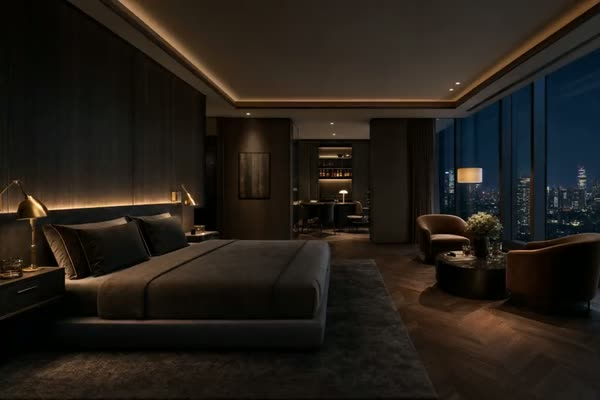
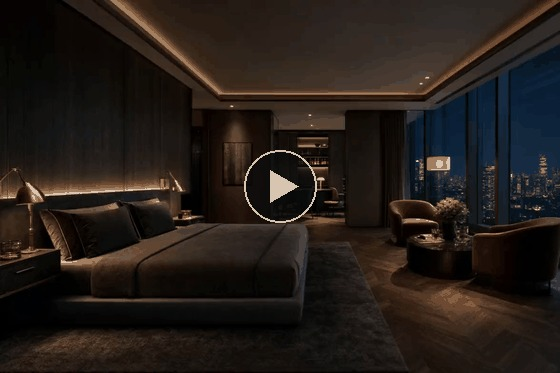
fix(email): resolve text overlaps on stats section and embed play button overlay cleanly into GIF

diff --git a/public/email-template.html b/public/email-template.html
@@ -19,23 +19,24 @@
   <style type="text/css">
     /* Reset styles */
     html, body { margin: 0 !important; padding: 0 !important; height: 100% !important; width: 100% !important; background-color: #08080a; }
-    * { -ms-text-size-adjust: 100%; -webkit-text-size-adjust: 100%; }
+    * { -ms-text-size-adjust: 100%; -webkit-text-size-adjust: 100%; box-sizing: border-box; }
     div[style*="margin: 16px 0"] { margin: 0 !important; }
     table, td { mso-table-lspace: 0pt !important; mso-table-rspace: 0pt !important; }
-    table { border-spacing: 0 !important; border-collapse: collapse !important; table-layout: fixed !important; margin: 0 auto !important; }
+    table { border-spacing: 0 !important; border-collapse: collapse !important; margin: 0 auto !important; }
     img { -ms-interpolation-mode: bicubic; border: 0; outline: none; text-decoration: none; display: block; }
     a { text-decoration: none; }
 
     /* Hover effects for modern mail clients */
-    .cta-btn:hover { background-color: #ffffff !important; color: #08080a !important; }
-    .gif-container:hover .play-badge { transform: scale(1.1); }
+    .btn-gold:hover { background-color: #ffffff !important; color: #08080a !important; }
+    .btn-white:hover { background-color: #d4af37 !important; color: #08080a !important; }
 
     /* Responsive styles */
     @media screen and (max-width: 600px) {
-      .email-container { width: 100% !important; margin: auto !important; }
-      .content-padding { padding: 24px 18px !important; }
+      .email-container { width: 100% !important; margin: auto !important; border-radius: 0 !important; }
+      .content-padding { padding: 24px 16px !important; }
       .header-title { font-size: 22px !important; line-height: 28px !important; }
-      .stat-number { font-size: 28px !important; }
+      .stat-col { width: 100% !important; display: block !important; margin-bottom: 6px !important; }
+      .stat-text-col { width: 100% !important; display: block !important; padding-left: 0 !important; margin-bottom: 20px !important; }
       .btn-mobile { width: 100% !important; display: block !important; box-sizing: border-box !important; text-align: center !important; }
     }
   </style>
@@ -48,25 +49,25 @@
     &#8479;&#8479;&#8479;&#8479;&#8479;&#8479;&#8479;&#8479;&#8479;&#8479;&#8479;&#8479;&#8479;&#8479;&#8479;&#8479;
   </div>
 
-  <!-- Email Wrapper -->
-  <table align="center" role="presentation" cellspacing="0" cellpadding="0" border="0" width="100%" style="background-color: #08080a; padding: 30px 10px;">
+  <!-- Email Outer Wrapper -->
+  <table align="center" role="presentation" cellspacing="0" cellpadding="0" border="0" width="100%" style="background-color: #08080a; padding: 24px 8px;">
     <tr>
       <td align="center">
 
         <!-- Container (600px Max Width) -->
-        <table align="center" role="presentation" cellspacing="0" cellpadding="0" border="0" width="600" class="email-container" style="background-color: #121216; border: 1px solid rgba(255,255,255,0.08); border-radius: 16px; overflow: hidden; width: 600px;">
+        <table align="center" role="presentation" cellspacing="0" cellpadding="0" border="0" width="600" class="email-container" style="background-color: #121216; border: 1px solid rgba(255,255,255,0.08); border-radius: 16px; overflow: hidden; width: 600px; max-width: 600px;">
 
           <!-- BRAND HEADER -->
           <tr>
-            <td style="padding: 32px 36px 20px 36px; background: linear-gradient(180deg, #181820 0%, #121216 100%); border-bottom: 1px solid rgba(255,255,255,0.06);" class="content-padding">
+            <td style="padding: 28px 32px 20px 32px; background: linear-gradient(180deg, #181822 0%, #121216 100%); border-bottom: 1px solid rgba(255,255,255,0.06);" class="content-padding">
               <table role="presentation" cellspacing="0" cellpadding="0" border="0" width="100%">
                 <tr>
                   <td>
-                    <span style="font-family: 'Helvetica Neue', Helvetica, Arial, sans-serif; font-size: 20px; font-weight: 800; letter-spacing: 0.15em; color: #ffffff; text-transform: uppercase;">NEXTWEB</span>
-                    <span style="font-family: 'Helvetica Neue', Helvetica, Arial, sans-serif; font-size: 20px; font-weight: 300; letter-spacing: 0.15em; color: #d4af37; text-transform: uppercase;"> HOTELS</span>
+                    <span style="font-family: 'Helvetica Neue', Helvetica, Arial, sans-serif; font-size: 19px; font-weight: 800; letter-spacing: 0.15em; color: #ffffff; text-transform: uppercase;">NEXTWEB</span>
+                    <span style="font-family: 'Helvetica Neue', Helvetica, Arial, sans-serif; font-size: 19px; font-weight: 300; letter-spacing: 0.15em; color: #d4af37; text-transform: uppercase;"> HOTELS</span>
                   </td>
                   <td align="right">
-                    <span style="font-size: 11px; font-weight: 700; letter-spacing: 0.12em; color: rgba(255,255,255,0.4); text-transform: uppercase; border: 1px solid rgba(255,255,255,0.12); padding: 4px 10px; border-radius: 20px;">Digital HoReCa</span>
+                    <span style="font-size: 11px; font-weight: 700; letter-spacing: 0.12em; color: rgba(255,255,255,0.45); text-transform: uppercase; border: 1px solid rgba(255,255,255,0.12); padding: 4px 10px; border-radius: 20px;">Digital HoReCa</span>
                   </td>
                 </tr>
               </table>
@@ -75,10 +76,10 @@
 
           <!-- MAIN CONTENT BODY -->
           <tr>
-            <td style="padding: 36px 36px 24px 36px;" class="content-padding">
+            <td style="padding: 32px 32px 24px 32px;" class="content-padding">
               
               <!-- Greeting -->
-              <h1 class="header-title" style="margin: 0 0 18px 0; font-family: 'Helvetica Neue', Helvetica, Arial, sans-serif; font-size: 24px; line-height: 32px; font-weight: 700; color: #ffffff;">
+              <h1 class="header-title" style="margin: 0 0 16px 0; font-family: 'Helvetica Neue', Helvetica, Arial, sans-serif; font-size: 24px; line-height: 30px; font-weight: 700; color: #ffffff;">
                 Здравствуйте, {{manager_name}}!
               </h1>
 
@@ -87,17 +88,17 @@
                 Современный гость избалован стандартными фотографиями. Вы наверняка замечали: даже самые красивые и профессиональные снимки номеров часто не передают реальный масштаб, атмосферу и уют отеля. Гости хотят «пощупать» пространство до того, как оплатят бронь в <strong style="color: #ffffff;">{{hotel_name}}</strong>.
               </p>
 
-              <p style="margin: 0 0 28px 0; font-size: 15px; line-height: 24px; color: #c4c4cb;">
+              <p style="margin: 0 0 24px 0; font-size: 15px; line-height: 24px; color: #c4c4cb;">
                 Мы в <strong style="color: #ffffff;">NextWeb Hotels</strong> создали решение, которое стирает барьер между экраном телефона и реальным ощущением присутствия.
               </p>
 
               <!-- WHAT WE OFFER BOX -->
-              <table role="presentation" cellspacing="0" cellpadding="0" border="0" width="100%" style="background-color: #1a1a22; border-left: 3px solid #d4af37; border-radius: 0 12px 12px 0; margin-bottom: 28px;">
+              <table role="presentation" cellspacing="0" cellpadding="0" border="0" width="100%" style="background-color: #181820; border-left: 3px solid #d4af37; border-radius: 0 10px 10px 0; margin-bottom: 24px;">
                 <tr>
-                  <td style="padding: 20px 24px;">
+                  <td style="padding: 18px 22px;">
                     <div style="font-size: 12px; font-weight: 700; letter-spacing: 0.14em; color: #d4af37; text-transform: uppercase; margin-bottom: 8px;">Что мы предлагаем?</div>
-                    <p style="margin: 0 0 10px 0; font-size: 14px; line-height: 22px; color: #e2e2e8;">
-                      <strong>Интерактивные 3D-видеотуры</strong> по ключевым зонам вашего отеля (номера, SPA, ресторан, лобби) с бесшовным монтажом и кинематографичными пролетами.
+                    <p style="margin: 0 0 8px 0; font-size: 14px; line-height: 22px; color: #ffffff; font-weight: 600;">
+                      Интерактивные 3D-видеотуры по ключевым зонам вашего отеля (номера, SPA, ресторан, лобби) с бесшовным монтажом и кинематографичными пролетами.
                     </p>
                     <p style="margin: 0; font-size: 13px; line-height: 20px; color: #a0a0ab;">
                       Это не просто скучные панорамы 360°, которые нужно долго крутить пальцем. Это динамичный, сочный видео-экспириенс нового поколения, создающий мгновенный вау-эффект.
@@ -106,97 +107,91 @@
                 </tr>
               </table>
 
-              <!-- GIF / DEMO PREVIEW BLOCK -->
-              <table role="presentation" cellspacing="0" cellpadding="0" border="0" width="100%" style="margin-bottom: 24px;">
+              <!-- GIF DEMO ANIMATION CARD -->
+              <table role="presentation" cellspacing="0" cellpadding="0" border="0" width="100%" style="margin-bottom: 12px;">
                 <tr>
-                  <td align="center">
-                    <a href="https://nextwebhotels.com/#cases" target="_blank" style="display: block; position: relative; text-decoration: none;">
-                      
-                      <!-- Animated GIF Image with Fallback -->
-                      <img src="/media/email-demo.gif" alt="3D Video Tour Preview" width="528" style="width: 100%; max-width: 528px; height: auto; border-radius: 12px; border: 1px solid rgba(255,255,255,0.15); display: block;" />
-
-                      <!-- PLAY BUTTON OVERLAY BANNER -->
-                      <table role="presentation" cellspacing="0" cellpadding="0" border="0" width="100%" style="margin-top: -50px; position: relative; z-index: 2;">
-                        <tr>
-                          <td align="center">
-                            <span style="display: inline-block; background: rgba(8, 8, 10, 0.85); backdrop-filter: blur(8px); border: 1px solid rgba(255, 255, 255, 0.25); border-radius: 30px; padding: 10px 22px; color: #ffffff; font-size: 13px; font-weight: 700; letter-spacing: 0.05em; box-shadow: 0 8px 24px rgba(0,0,0,0.5);">
-                              &#9654; Нажмите, чтобы открыть 3D-демо
-                            </span>
-                          </td>
-                        </tr>
-                      </table>
-
+                  <td align="center" style="background: #08080a; padding: 8px; border-radius: 12px; border: 1px solid rgba(255,255,255,0.1);">
+                    <a href="https://nextwebhotels.com/#cases" target="_blank" style="display: block; text-decoration: none;">
+                      <!-- Optimized Animated GIF with built-in Play Button overlay -->
+                      <img src="/media/email-demo.gif" alt="3D Video Tour Preview - Нажмите для просмотра" width="520" style="width: 100%; max-width: 520px; height: auto; border-radius: 8px; display: block;" />
                     </a>
                   </td>
                 </tr>
               </table>
 
+              <!-- Action hint under GIF -->
+              <div align="center" style="margin-bottom: 24px;">
+                <a href="https://nextwebhotels.com/#cases" target="_blank" style="font-size: 12px; font-weight: 600; color: #d4af37; text-decoration: underline;">
+                  ▶ Нажмите на видео-превью, чтобы открыть живое 3D-демо на сайте
+                </a>
+              </div>
+
               <!-- CTA BUTTON 1 -->
-              <table role="presentation" cellspacing="0" cellpadding="0" border="0" width="100%" style="margin-bottom: 36px;">
+              <table role="presentation" cellspacing="0" cellpadding="0" border="0" width="100%" style="margin-bottom: 32px;">
                 <tr>
                   <td align="center">
-                    <a href="https://nextwebhotels.com/#cases" target="_blank" class="cta-btn btn-mobile" style="display: inline-block; background-color: #f2f1ed; color: #08080a; font-family: 'Helvetica Neue', Helvetica, Arial, sans-serif; font-size: 15px; font-weight: 700; letter-spacing: 0.03em; padding: 16px 36px; border-radius: 8px; text-decoration: none; transition: all 0.2s ease;">
+                    <a href="https://nextwebhotels.com/#cases" target="_blank" class="btn-white btn-mobile" style="display: inline-block; background-color: #f2f1ed; color: #08080a; font-family: 'Helvetica Neue', Helvetica, Arial, sans-serif; font-size: 15px; font-weight: 700; letter-spacing: 0.02em; padding: 15px 32px; border-radius: 8px; text-decoration: none; box-shadow: 0 4px 14px rgba(0,0,0,0.3);">
                       👉 Посмотреть, как это выглядит в движении
                     </a>
                   </td>
                 </tr>
               </table>
 
-              <div style="height: 1px; background: rgba(255,255,255,0.08); margin-bottom: 32px;"></div>
+              <div style="height: 1px; background: rgba(255,255,255,0.08); margin-bottom: 28px;"></div>
 
-              <!-- NUMBERS & BENEFITS SECTION -->
-              <h2 style="margin: 0 0 20px 0; font-size: 18px; font-weight: 700; color: #ffffff;">
+              <!-- NUMBERS & BENEFITS SECTION HEADER -->
+              <h2 style="margin: 0 0 20px 0; font-size: 18px; font-weight: 700; color: #ffffff; line-height: 24px;">
                 Что это дает вашему отелю на цифрах?
               </h2>
 
-              <!-- Benefit Item 1 -->
-              <table role="presentation" cellspacing="0" cellpadding="0" border="0" width="100%" style="margin-bottom: 16px;">
+              <!-- STAT 1: +45% -->
+              <table role="presentation" cellspacing="0" cellpadding="0" border="0" width="100%" style="margin-bottom: 20px;">
                 <tr>
-                  <td width="70" valign="top">
-                    <div class="stat-number" style="font-size: 26px; font-weight: 800; color: #d4af37; line-height: 1;">+45%</div>
+                  <td width="110" valign="top" class="stat-col" style="padding-right: 12px;">
+                    <div style="font-family: 'Helvetica Neue', Helvetica, Arial, sans-serif; font-size: 24px; font-weight: 800; color: #d4af37; line-height: 26px; white-space: nowrap;">+45%</div>
                   </td>
-                  <td valign="top" style="padding-left: 12px;">
-                    <div style="font-size: 14px; font-weight: 700; color: #ffffff; margin-bottom: 4px;">к времени пребывания на сайте</div>
+                  <td valign="top" class="stat-text-col">
+                    <div style="font-size: 15px; font-weight: 700; color: #ffffff; margin-bottom: 4px; line-height: 20px;">к времени пребывания на сайте</div>
                     <div style="font-size: 13px; line-height: 19px; color: #a0a0ab;">Гости залипают на интерактивный контент, изучая детали, что сильно поднимает сайт в поисковой выдаче Google.</div>
                   </td>
                 </tr>
               </table>
 
-              <!-- Benefit Item 2 -->
-              <table role="presentation" cellspacing="0" cellpadding="0" border="0" width="100%" style="margin-bottom: 16px;">
+              <!-- STAT 2: Direct -->
+              <table role="presentation" cellspacing="0" cellpadding="0" border="0" width="100%" style="margin-bottom: 20px;">
                 <tr>
-                  <td width="70" valign="top">
-                    <div class="stat-number" style="font-size: 26px; font-weight: 800; color: #d4af37; line-height: 1;">Direct</div>
+                  <td width="110" valign="top" class="stat-col" style="padding-right: 12px;">
+                    <div style="font-family: 'Helvetica Neue', Helvetica, Arial, sans-serif; font-size: 24px; font-weight: 800; color: #d4af37; line-height: 26px; white-space: nowrap;">Direct</div>
                   </td>
-                  <td valign="top" style="padding-left: 12px;">
-                    <div style="font-size: 14px; font-weight: 700; color: #ffffff; margin-bottom: 4px;">Увеличение прямых продаж</div>
+                  <td valign="top" class="stat-text-col">
+                    <div style="font-size: 15px; font-weight: 700; color: #ffffff; margin-bottom: 4px; line-height: 20px;">Увеличение прямых продаж</div>
                     <div style="font-size: 13px; line-height: 19px; color: #a0a0ab;">Когда гость видит реальный вид из окна Presidential Suite или глубину бассейна в SPA, он принимает решение о бронировании быстрее и без лишних вопросов службе поддержки.</div>
                   </td>
                 </tr>
               </table>
 
-              <!-- Benefit Item 3 -->
+              <!-- STAT 3: UX 2.0 -->
               <table role="presentation" cellspacing="0" cellpadding="0" border="0" width="100%" style="margin-bottom: 28px;">
                 <tr>
-                  <td width="70" valign="top">
-                    <div class="stat-number" style="font-size: 26px; font-weight: 800; color: #d4af37; line-height: 1;">UX 2.0</div>
+                  <td width="110" valign="top" class="stat-col" style="padding-right: 12px;">
+                    <div style="font-family: 'Helvetica Neue', Helvetica, Arial, sans-serif; font-size: 24px; font-weight: 800; color: #d4af37; line-height: 26px; white-space: nowrap;">UX 2.0</div>
                   </td>
-                  <td valign="top" style="padding-left: 12px;">
-                    <div style="font-size: 14px; font-weight: 700; color: #ffffff; margin-bottom: 4px;">Отстройка от конкурентов</div>
+                  <td valign="top" class="stat-text-col">
+                    <div style="font-size: 15px; font-weight: 700; color: #ffffff; margin-bottom: 4px; line-height: 20px;">Отстройка от конкурентов</div>
                     <div style="font-size: 13px; line-height: 19px; color: #a0a0ab;">Пока другие используют классические галереи, вы предлагаете технологичный и тактильный UX.</div>
                   </td>
                 </tr>
               </table>
 
               <!-- HOW IT WORKS SECTION -->
-              <table role="presentation" cellspacing="0" cellpadding="0" border="0" width="100%" style="background-color: #16161d; border-radius: 12px; margin-bottom: 32px;">
+              <table role="presentation" cellspacing="0" cellpadding="0" border="0" width="100%" style="background-color: #16161e; border: 1px solid rgba(255,255,255,0.06); border-radius: 12px; margin-bottom: 28px;">
                 <tr>
-                  <td style="padding: 24px;">
-                    <div style="font-size: 16px; font-weight: 700; color: #ffffff; margin-bottom: 10px;">⚡ Как это работает на вашем сайте?</div>
-                    <p style="margin: 0 0 12px 0; font-size: 13px; line-height: 21px; color: #c4c4cb;">
+                  <td style="padding: 22px;">
+                    <div style="font-size: 15px; font-weight: 700; color: #ffffff; margin-bottom: 8px;">⚡ Как это работает на вашем сайте?</div>
+                    <p style="margin: 0 0 10px 0; font-size: 13px; line-height: 20px; color: #c4c4cb;">
                       Внедрение занимает <strong>всего пару часов</strong>. Мы даем готовый легкий код, который легко встраивается на любую платформу (Tilda, WordPress или самописный движок) и абсолютно не тормозит загрузку сайта ни на десктопах, ни на смартфонах.
                     </p>
-                    <p style="margin: 0; font-size: 13px; line-height: 21px; color: #c4c4cb;">
+                    <p style="margin: 0; font-size: 13px; line-height: 20px; color: #c4c4cb;">
                       Мы уже подготовили несколько живых кейсов для отелей разного формата, чтобы вы могли оценить плавность переходов и качество картинки лично.
                     </p>
                   </td>
@@ -204,10 +199,10 @@
               </table>
 
               <!-- CTA BUTTON 2 (FINAL DEMO) -->
-              <table role="presentation" cellspacing="0" cellpadding="0" border="0" width="100%" style="margin-bottom: 24px;">
+              <table role="presentation" cellspacing="0" cellpadding="0" border="0" width="100%" style="margin-bottom: 12px;">
                 <tr>
                   <td align="center">
-                    <a href="https://nextwebhotels.com/#cases" target="_blank" class="cta-btn btn-mobile" style="display: inline-block; background: linear-gradient(135deg, #d4af37 0%, #b89228 100%); color: #08080a; font-family: 'Helvetica Neue', Helvetica, Arial, sans-serif; font-size: 16px; font-weight: 800; letter-spacing: 0.04em; padding: 18px 42px; border-radius: 8px; text-decoration: none; box-shadow: 0 6px 20px rgba(212,175,55,0.25);">
+                    <a href="https://nextwebhotels.com/#cases" target="_blank" class="btn-gold btn-mobile" style="display: inline-block; background: linear-gradient(135deg, #d4af37 0%, #b89228 100%); color: #08080a; font-family: 'Helvetica Neue', Helvetica, Arial, sans-serif; font-size: 16px; font-weight: 800; letter-spacing: 0.04em; padding: 17px 38px; border-radius: 8px; text-decoration: none; box-shadow: 0 6px 20px rgba(212,175,55,0.25);">
                       👉 ОТКРЫТЬ ДЕМО И КЕЙСЫ
                     </a>
                   </td>
@@ -219,7 +214,7 @@
 
           <!-- FOOTER / SIGNATURE SECTION -->
           <tr>
-            <td style="padding: 28px 36px 36px 36px; background-color: #0b0b0e; border-top: 1px solid rgba(255,255,255,0.06);" class="content-padding">
+            <td style="padding: 24px 32px 32px 32px; background-color: #0b0b0e; border-top: 1px solid rgba(255,255,255,0.06);" class="content-padding">
               <table role="presentation" cellspacing="0" cellpadding="0" border="0" width="100%">
                 <tr>
                   <td>
